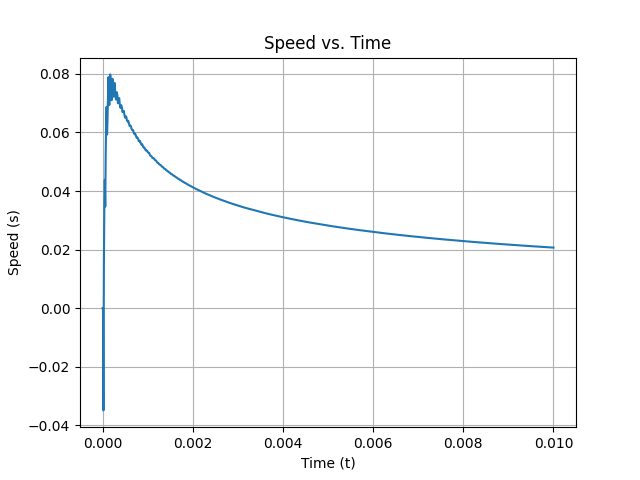
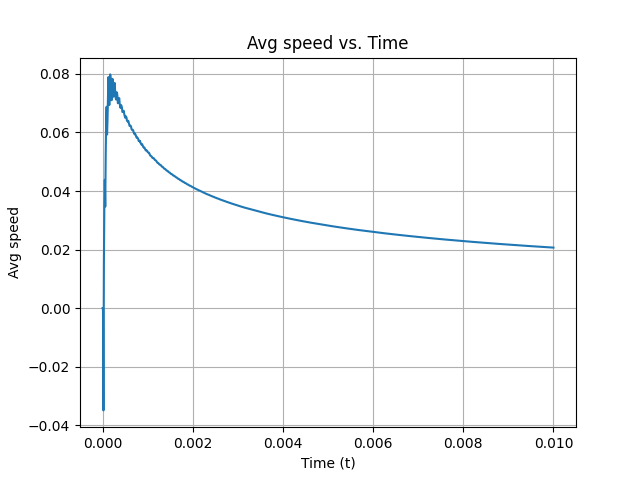
Add files via upload

Changed region(s): [[0.375, 0.0625, 0.6562, 0.125], [0.0, 0.4375, 0.0312, 0.5938]]

diff --git a/Milestone 5-Poiseuille flow.py b/Milestone 5-Poiseuille flow.py
@@ -15,13 +15,13 @@ import numpy as np
 
 TOTAL_TIME = 0.01
 INIT_DENSITY = 1. #0.001
-VERBOSE = True
+VERBOSE = False
 
 #Cs=1/math.sqrt(3)
 Cs=math.sqrt(3)
 if(VERBOSE): print("Cs: {0}".format(Cs))
 
-D=10**(-3) #m
+D=10**(-3) 
 if(VERBOSE): print("D: {0}".format(D))
 D_nd=100
 if(VERBOSE): print("D_nd: {0}".format(D_nd))
@@ -38,7 +38,7 @@ if(VERBOSE): print("dx: {0}".format(dx))
 delta_t=1
 #relaxation time tau, should be > 0,5
 tau=0.6
-dP=10**(-2) #Pa
+dP=10**(-2) 
 rho_0=10**3
 dRho=dP/Cs**2
 
@@ -55,7 +55,7 @@ if(VERBOSE):
     print("roh_in: {0}".format(roh_in))
     print("roh_out: {0}".format(roh_out))
 
-nu=3*10**(-6) #m2/s
+nu=3*10**(-6) 
 dt=Cs**2*(tau-1./2)*(dx**2/nu)
 if(VERBOSE): print("dt: {0}".format(dt))
 
@@ -184,14 +184,14 @@ def feq_i(i, rho, u_avg):
 
 #collision equilibrium distribution function feq(0-8) for each lattice slice at inlet/outlet
 def f_eq_slc(j, roh_nd, u_avg):
-    _slice = np.stack([feq_i(i, roh_nd, u_avg) for i in range(0, 9)], axis=0) #-1
+    _slice = np.stack([feq_i(i, roh_nd, u_avg) for i in range(0, 9)], axis=0) 
     return _slice
 
 
 #roll the lattice based on the discrete velocities
 def streamLtc(_ltc):
     tmpLtc = [np.roll(np.roll(_ltc[direction, :, :], shift=dy, axis=0), shift=dx, axis=1) for direction, (dx, dy) in enumerate(discrete_velocities)]
-    shifted_lattice = np.stack(tmpLtc, axis=0) #2
+    shifted_lattice = np.stack(tmpLtc, axis=0) 
     
     return shifted_lattice
 
@@ -351,7 +351,7 @@ speed_values = [pair[1] for pair in outlet_midstream_avg_v]
 
 plt.plot(time_values, speed_values)
 plt.xlabel('Time (t)')
-plt.ylabel('Speed (s)')
-plt.title('Speed vs. Time')
+plt.ylabel('Avg speed')
+plt.title('Avg speed vs. Time')
 plt.grid(True)
 plt.show(block=True)
